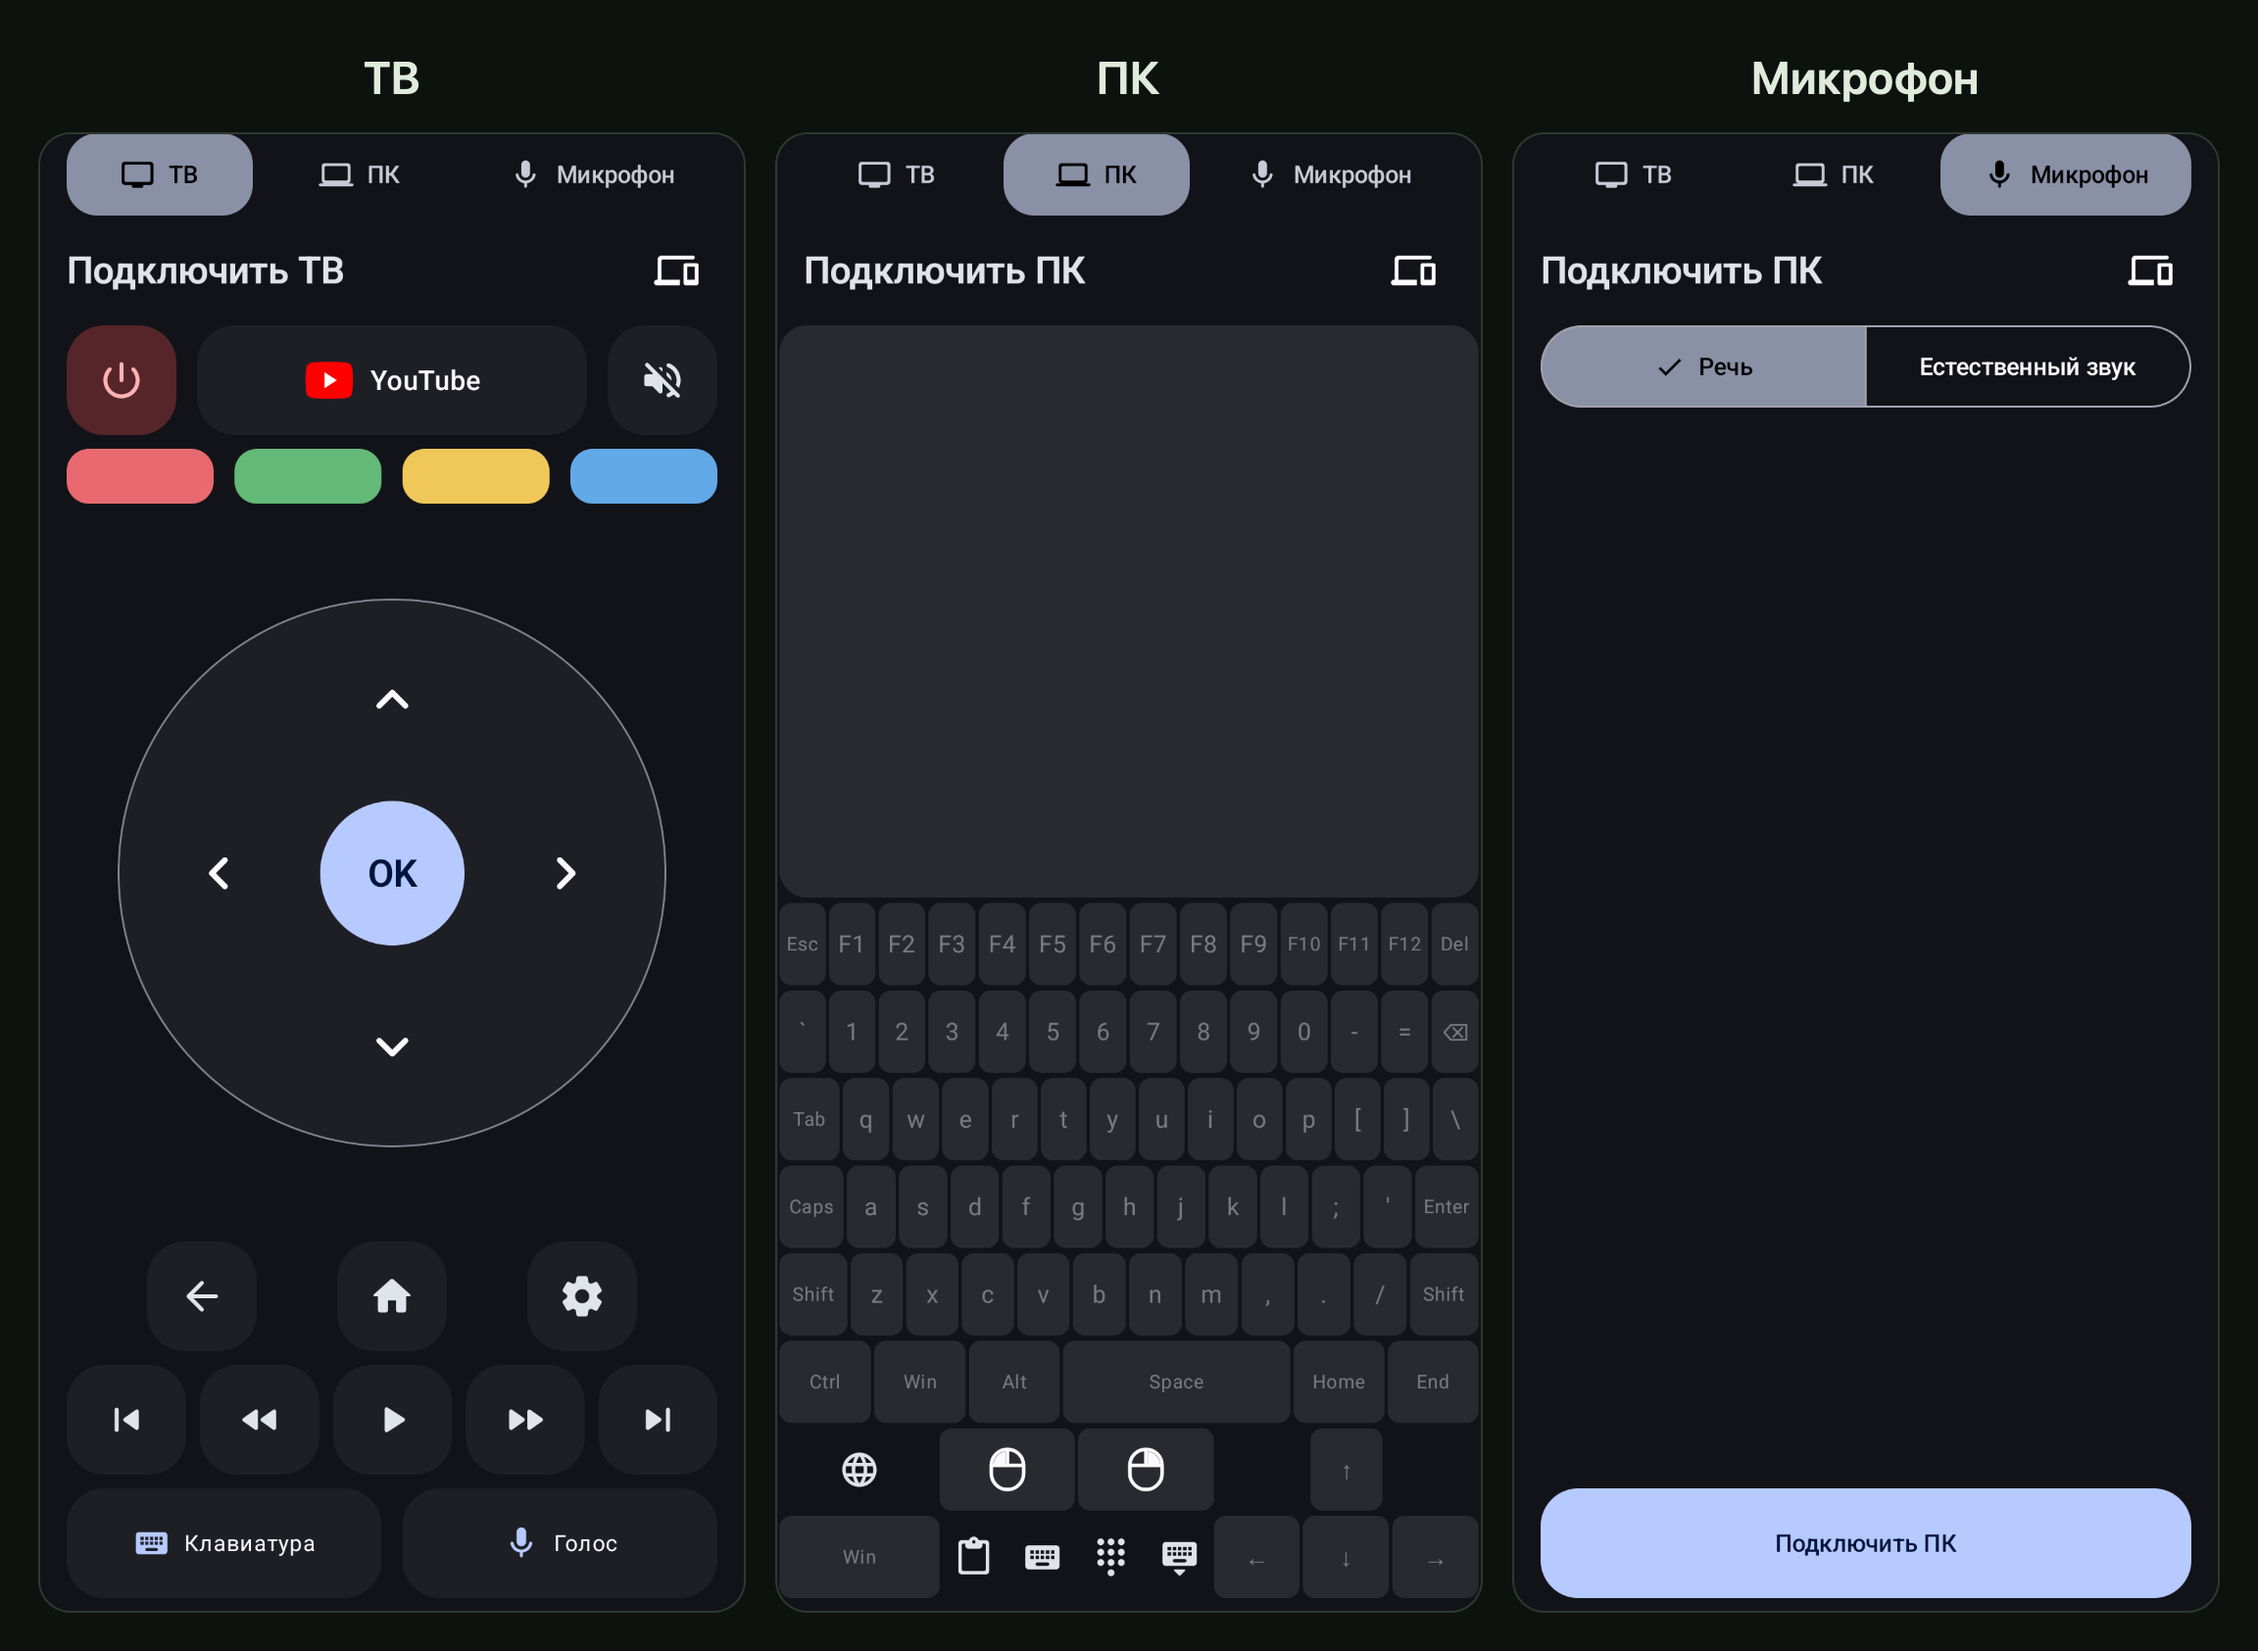
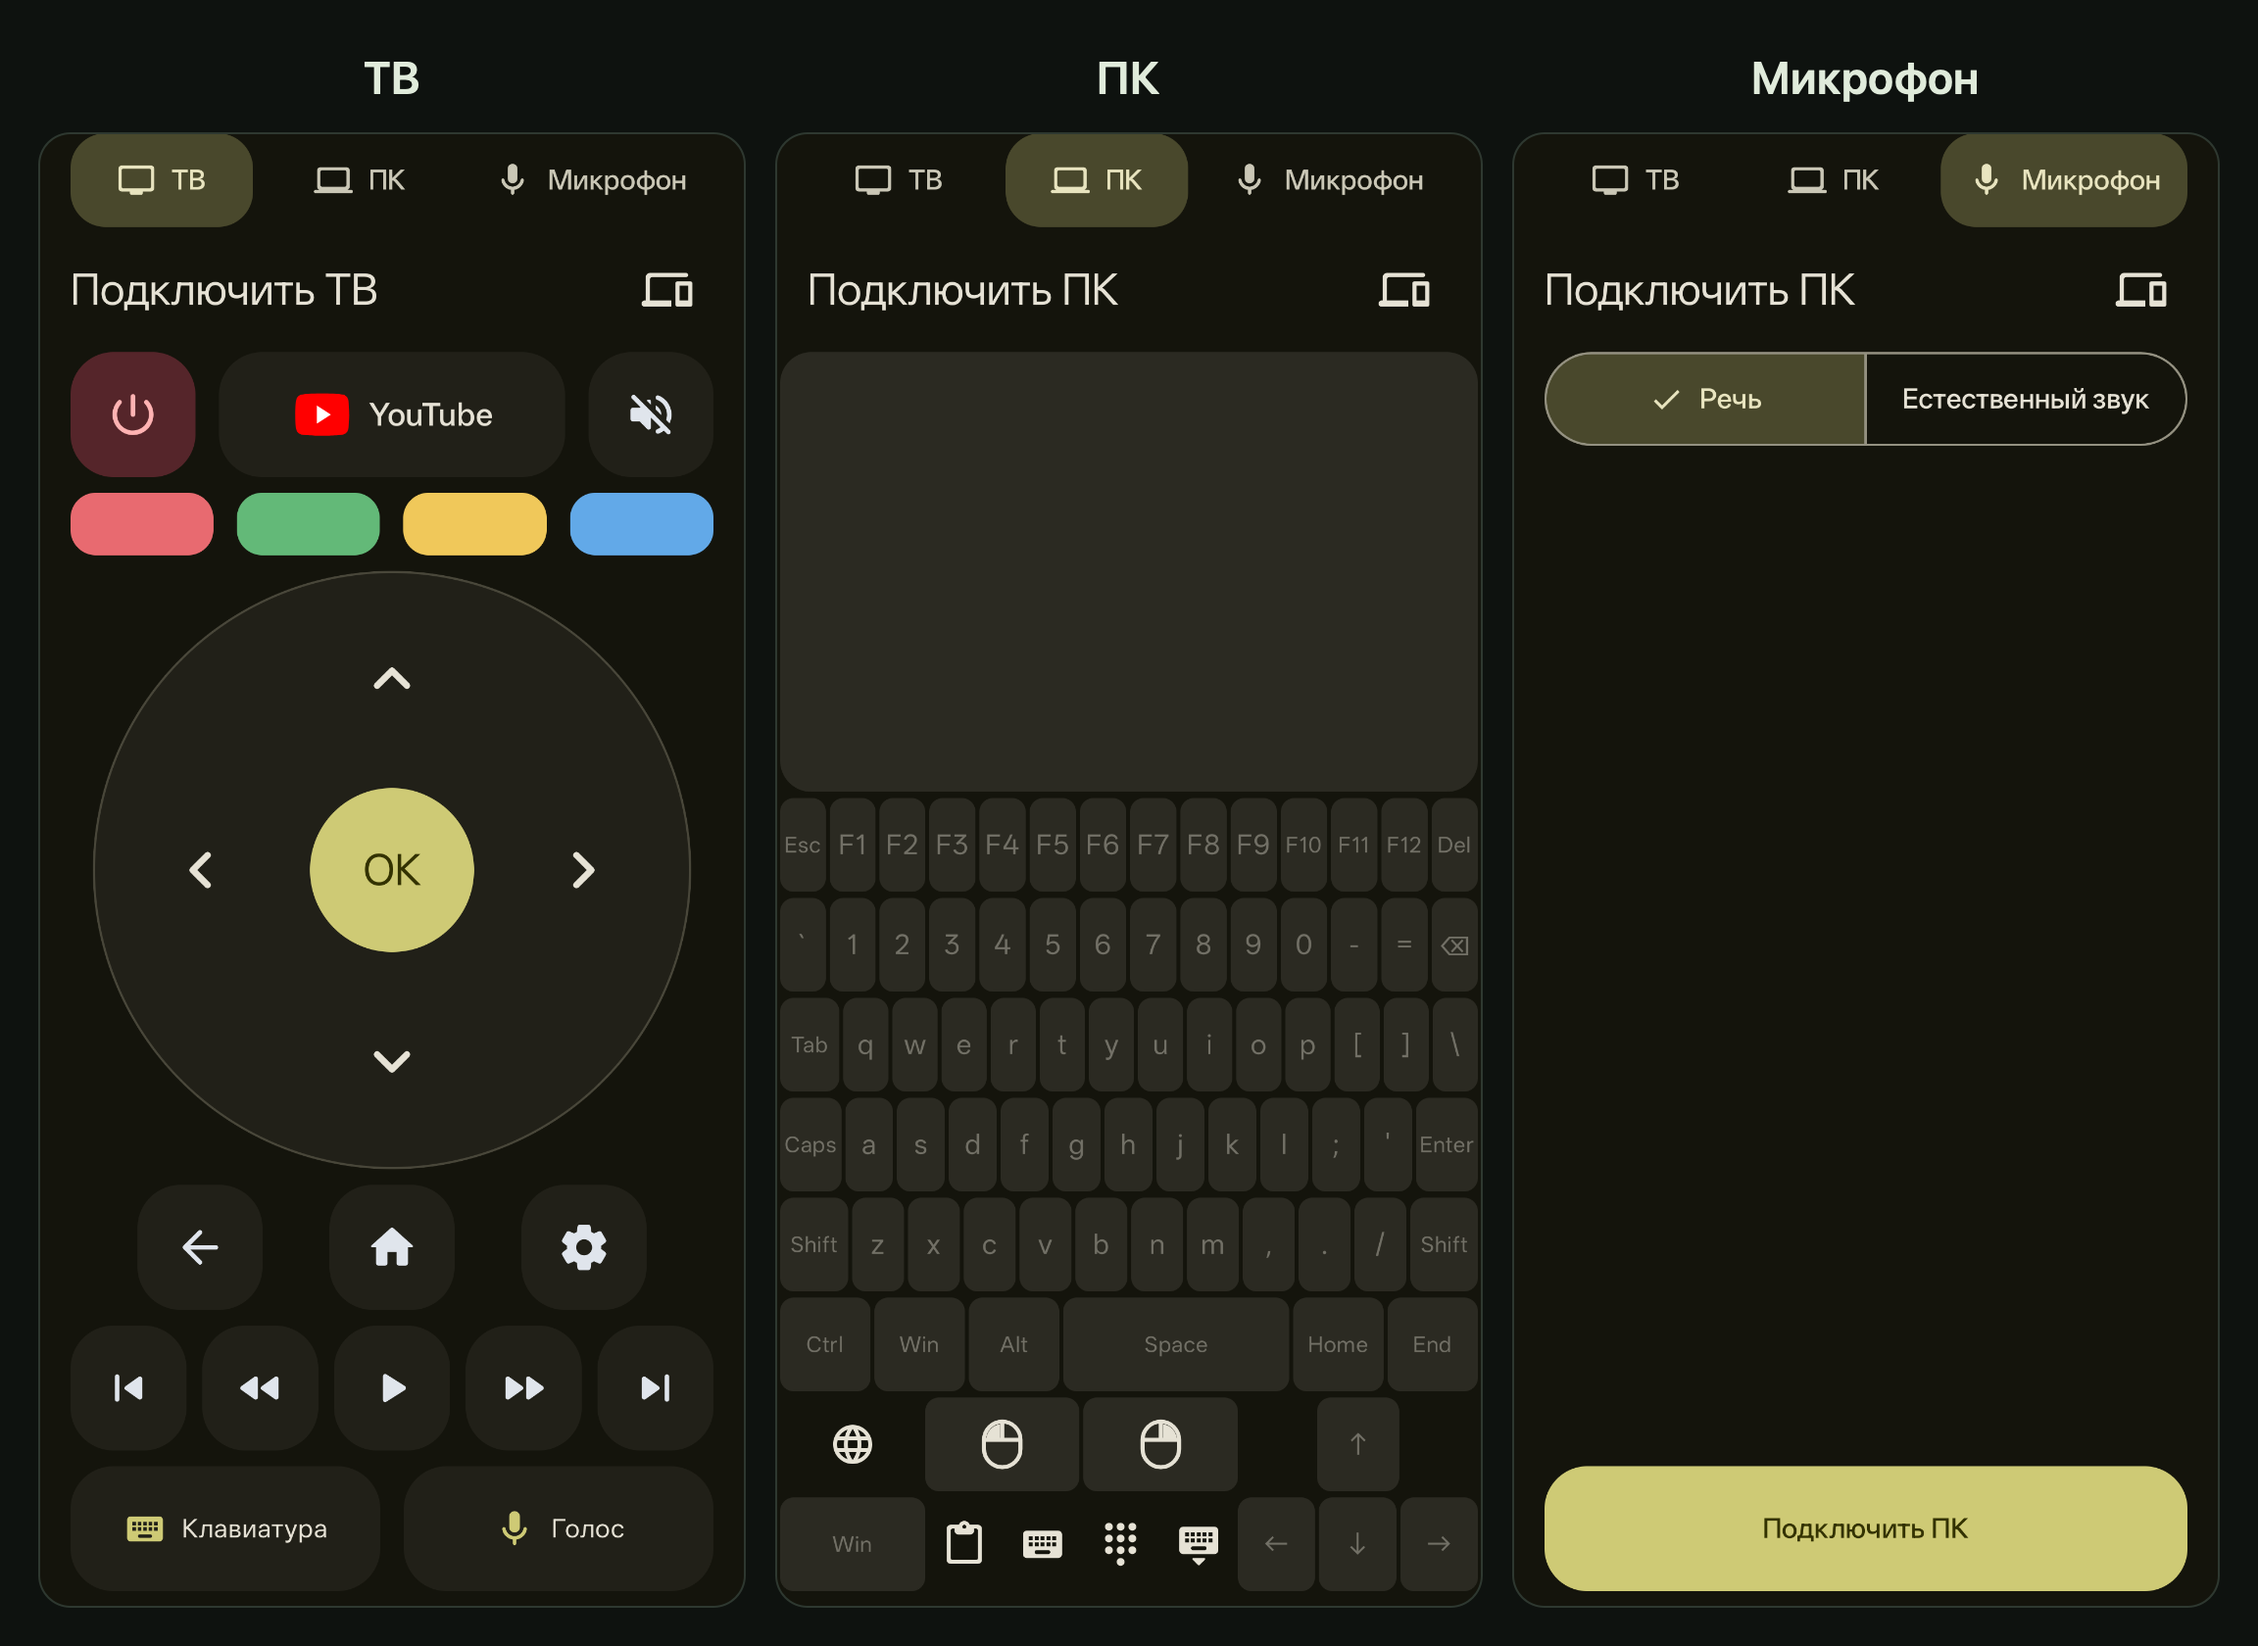
docs: refresh anonymized previews with phone colors

diff --git a/app/src/androidTest/java/belowevolve/airremote/ModalRegressionRunner.java b/app/src/androidTest/java/belowevolve/airremote/ModalRegressionRunner.java
@@ -49,7 +49,8 @@ public final class ModalRegressionRunner extends Instrumentation {
             if (!"true".equals(args.getString("restoreOnly"))) {
                 backup();
                 getTargetContext().getSharedPreferences("pc_remote", 0).edit().putBoolean("auto_keyboard", false).commit();
-                if ("true".equals(args.getString("microphoneSettings"))) runMicrophoneSettings();
+                if ("tv".equals(args.getString("screenPreview"))) runDisconnectedTvPreview(result);
+                else if ("true".equals(args.getString("microphoneSettings"))) runMicrophoneSettings();
                 else if ("true".equals(args.getString("bluetoothProgress"))) runBluetoothProgress();
                 else if ("true".equals(args.getString("tvPairingFixture"))) runTvPairing();
                 else if ("true".equals(args.getString("unifiedConnection"))) runUnifiedConnection();
@@ -149,6 +150,16 @@ public final class ModalRegressionRunner extends Instrumentation {
         automation = getUiAutomation(UiAutomation.FLAG_DONT_SUPPRESS_ACCESSIBILITY_SERVICES);
         await("ПК");
     }
+    private void runDisconnectedTvPreview(Bundle result) throws Exception {
+        phase = "disconnected_tv_preview";
+        require(getTargetContext().getSharedPreferences("remote", 0).edit()
+                .remove("host").remove("name").putBoolean("auto_connect", false)
+                .putBoolean("auto_keyboard", false).commit(), "tv_preview_setup_failed");
+        launch();
+        new ScreenPreviewCapture(this).capture("tv", result);
+        events.add("disconnected_tv_preview: PASS");
+    }
+
     private void runChecks() throws Exception {
         phase = "launch"; launch();
         phase = "pc_settings"; click(await("ПК")); click(await("Настройки ПК"));

diff --git a/app/src/androidTest/README.md b/app/src/androidTest/README.md
@@ -14,6 +14,7 @@ adb -s PHONE shell am instrument -w -r -e modalFixture true \
 - `tvPairingFixture=true` — PIN-сопряжение с тестовым TLS-сервером из `fixtures/`; адрес и DNS-SD-имя задаются `tvFixtureHost` и `tvFixtureName`.
 - `bluetoothProgress=true` — лоадер на существующей Bluetooth-паре, выбранной через `bluetoothName`.
 - `microphoneSettings=true` — переключатели волны и анимации иконки.
+- `screenPreview=tv` — снимок с заголовком «Подключить ТВ», без имени сохранённого телевизора. Настройки и сертификаты сопряжения сохраняются.
 
 Настройки сохраняются перед прогоном и восстанавливаются в конце. После прерванного запуска используйте `restoreOnly=true` с тем же runner.
 

diff --git a/README.md b/README.md
@@ -10,6 +10,8 @@
 
 **Air Remote** — пульт для телевизора и ПК: кнопки, клавиатура, трекпад и передача микрофона с телефона.
 
+На Android 12+ цвета интерфейса подстраиваются под тему телефона.
+
 ![ТВ, ПК и микрофон — экраны Air Remote](assets/readme/preview.png)
 
 Телевизор подключается по Wi-Fi с кодом на экране. Клавиатура и трекпад ПК работают по Bluetooth. Для передачи микрофона, вставки текста и обычной клавиатуры Android установите [Air Companion](companion/README.md) и отсканируйте его QR-код.
